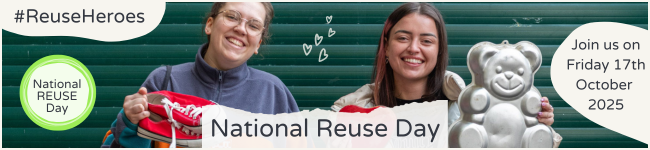
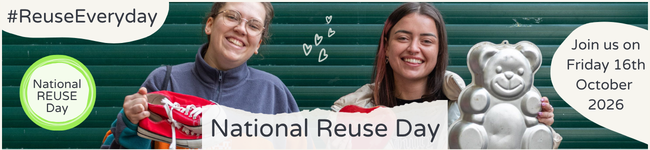
National Reuse Day 2026 page
New banner, the A-Z short in place of A sofa story, the new
Resources folder, a #ReuseEveryday button with no link yet, and
this year's text. A box with no url now shows without a link.

diff --git a/iznik-nuxt3/pages/NationalReuseDay.vue b/iznik-nuxt3/pages/NationalReuseDay.vue
@@ -7,16 +7,17 @@
           <div class="d-flex justify-content-around">
             <ProxyImage
               preload
-              src="/NRD/Banner.png?a=1"
+              src="/NRD/Banner.png?a=2"
               alt="National Reuse Day banner"
               class-name="image mt-2 w-100"
             />
           </div>
           <div class="d-flex justify-content-around w-100">
-            <div class="ratio ratio-16x9">
+            <div class="ratio short mt-2">
               <iframe
                 class="embed-responsive-item w-100"
-                src="https://www.youtube.com/embed/1SxLokz9F88?si=fcTHW2u75l9qMr6d"
+                src="https://www.youtube.com/embed/jyrAq57nqPM"
+                title="Freegle A-Z"
                 allowfullscreen
               />
             </div>
@@ -34,7 +35,7 @@
               title="Resources"
               image="/NRD/resources.png"
               description="Free communications assets, images and press release."
-              url="https://drive.google.com/drive/folders/1TuJV6LOVv_1x3UMmUBhhkCsc48uhDwA4?usp=share_link"
+              url="https://drive.google.com/drive/folders/1jxRM76QwE9VOqUJH5IvAza3detOAjKbr?usp=share_link"
               colour="blue"
             />
             <NationalReuseDayBox
@@ -52,10 +53,9 @@
               colour="gold"
             />
             <NationalReuseDayBox
-              title="#ReuseHeroes"
-              image="/NRD/ReuseHeroes.png"
-              description="Find out about Freegle's Reuse Heroes."
-              url="https://www.canva.com/design/DAG0jRT27LA/ZImvRlocTQiuEuaSICtL5w/view?utm_content=DAG0jRT27LA&utm_campaign=designshare&utm_medium=link&utm_source=viewer"
+              title="#ReuseEveryday"
+              image="/NRD/ReuseEveryday.png"
+              description="Easy ways to #ReuseEveryday."
               colour="orange"
             />
             <NationalReuseDayBox
@@ -70,22 +70,20 @@
             <b-card class="cardwidth">
               <p>
                 National Reuse Day is an annual celebration of the simple yet
-                powerful act of ‘Reuse’ - in all its forms. There are so many
-                easy ways for all of us to reuse household items and pass things
-                on when we no longer need them. Whether you opt to re-home items
-                of furniture; take clothes you no longer wear to a charity shop
-                or simply remember to take your reusable bags with you when you
-                shop - it’s all reuse and it’s all good!
+                powerful act of ‘Reuse’ - in all its forms. National Reuse Day
+                is celebrated each year on the third Friday in October.
               </p>
               <p>
-                National Reuse Day is celebrated each year on the third Friday
-                in October. This year, Reuse Day will focus on the UK’s
-                incredible network of ‘Reuse Heroes’. Reuse Heroes are
-                individuals, organisations and projects - in communities up and
-                down the UK - which help people to waste less and reuse more.
+                This year, Reuse Day will focus on encouraging people to choose
+                to #ReuseEveryday. There are so many easy ways for all of us to
+                reuse household items and pass things on when we no longer need
+                them. Whether you opt to re-home items of furniture; take
+                clothes you no longer wear to a charity shop or simply remember
+                to take your reusable bags with you when you shop - it’s all
+                reuse and it’s all good!
               </p>
               <p class="mt-2">
-                For more information about National Reuse Day contact us here:
+                For more information about #NationalReuseDay contact us here:
                 <SupportLink
                   email="partnerships@ilovefreegle.org"
                   text="partnerships@ilovefreegle.org"
@@ -121,7 +119,7 @@ definePageMeta({
 const head = buildHead(
   route,
   runtimeConfig,
-  'National Reuse Day 2025',
+  'National Reuse Day 2026',
   'Celebrate reuse and get involved',
   runtimeConfig.public.USER_SITE + '/councils/NationalReuseDay.png',
   {
@@ -179,6 +177,11 @@ onMounted(() => {
     grid-template-rows: 1fr 1fr;
     grid-row-gap: 20px;
   }
+}
+
+.short {
+  --bs-aspect-ratio: calc(16 / 9 * 100%);
+  max-width: 340px;
 }
 
 .cardwidth {

diff --git a/iznik-nuxt3/tests/e2e/test-proxy-image-branches.spec.js b/iznik-nuxt3/tests/e2e/test-proxy-image-branches.spec.js
@@ -16,7 +16,7 @@
  * FreeglerPhotoGrid.vue (rendered on the logged-out homepage) passes image
  * 1 preload+fetchpriority="high" and image 3 neither, exercising both
  * ProxyImage branches in one render. NationalReuseDay.vue's banner
- * (src="/NRD/Banner.png?a=1", non-http, contains '?') exercises the
+ * (src="/NRD/Banner.png?a=2", non-http, contains '?') exercises the
  * fullSrc branches, and its (logged-out) SupportLink covers that branch.
  * The logged-in SupportLink branch is exercised on /mobile instead:
  * NationalReuseDay uses the 'no-navbar' layout, which never calls
@@ -76,7 +76,7 @@ test.describe('ProxyImage and SupportLink branch coverage', () => {
     // the weserv url= param once, so one decode must show the query as the
     // origin will see it.
     const bannerSrc = await banner.getAttribute('src')
-    expect(decodeURIComponent(bannerSrc)).toContain('/NRD/Banner.png?a=1')
+    expect(decodeURIComponent(bannerSrc)).toContain('/NRD/Banner.png?a=2')
 
     // SupportLink is <client-only>; wait for its mailto link explicitly
     // rather than relying on the page title, so hydration has actually

diff --git a/iznik-nuxt3/tests/unit/components/NationalReuseDayBox.spec.js b/iznik-nuxt3/tests/unit/components/NationalReuseDayBox.spec.js
@@ -57,6 +57,14 @@ describe('NationalReuseDayBox', () => {
         'https://freegle.org/page'
       )
     })
+
+    it('shows the box without a link when there is no url', () => {
+      const wrapper = createWrapper({ url: undefined, description: 'Soon' })
+      expect(wrapper.find('.external-link').exists()).toBe(false)
+      expect(wrapper.find('a').exists()).toBe(false)
+      expect(wrapper.find('.box').exists()).toBe(true)
+      expect(wrapper.text()).toContain('Soon')
+    })
   })
 
   describe('colour classes', () => {
@@ -119,7 +127,7 @@ describe('NationalReuseDayBox', () => {
       expect(wrapper.props('description')).toBe('Required Description')
     })
 
-    it('requires url prop', () => {
+    it('accepts url prop', () => {
       const wrapper = createWrapper({ url: 'https://required.url' })
       expect(wrapper.props('url')).toBe('https://required.url')
     })

diff --git a/iznik-nuxt3/components/NationalReuseDayBox.vue b/iznik-nuxt3/components/NationalReuseDayBox.vue
@@ -1,6 +1,6 @@
 <template>
   <div class="box-wrapper d-flex justify-content-around" :title="title">
-    <ExternalLink :href="url">
+    <component :is="url ? ExternalLink : 'div'" :href="url || undefined">
       <div
         :class="boxClass"
         class="box"
@@ -13,10 +13,12 @@
       <p class="text-center mt-2 fw-normal">
         {{ description }}
       </p>
-    </ExternalLink>
+    </component>
   </div>
 </template>
 <script setup>
+import ExternalLink from '~/components/ExternalLink.vue'
+
 const props = defineProps({
   title: {
     type: String,
@@ -26,9 +28,11 @@ const props = defineProps({
     type: String,
     required: true,
   },
+  // No url means the box shows without a link, e.g. while a link is awaited.
   url: {
     type: String,
-    required: true,
+    required: false,
+    default: null,
   },
   colour: {
     type: String,
